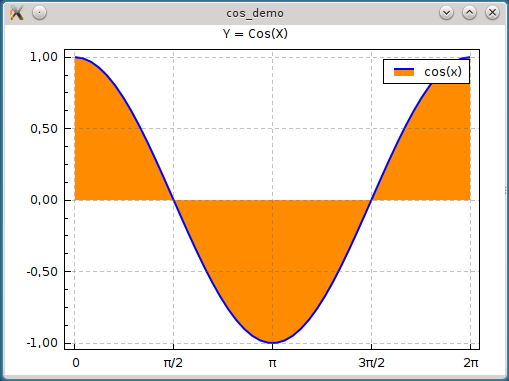
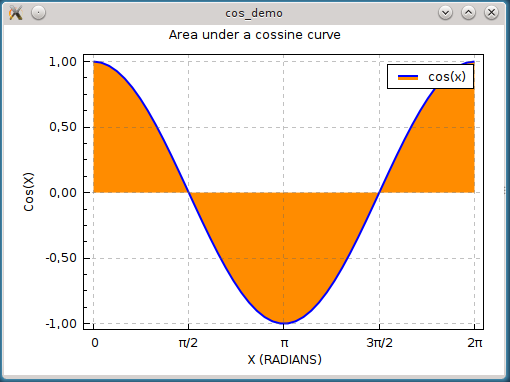
added axis labels

diff --git a/src/slope/axis.c b/src/slope/axis.c
@@ -22,7 +22,7 @@
 #include <stdlib.h>
 
 
-static const double dashes[2] = { 4.0, 3.0 };
+static const double dashes[2] = { 4.0, 4.0 };
 
 
 static void _slope_axis_get_data_rect (const slope_item_t *self, slope_rect_t *rect);
@@ -52,7 +52,7 @@ static slope_item_class_t* _slope_axis_get_class()
 }
 
 
-slope_item_t* slope_axis_new (slope_scale_t *linear_scale, slope_axis_position_t pos)
+slope_item_t* slope_axis_new (slope_scale_t *linear_scale, const char *name, slope_axis_position_t pos)
 {
     slope_axis_t *self = SLOPE_ALLOC(slope_axis_t);
     slope_axis_private_t *priv = SLOPE_ALLOC(slope_axis_private_t);
@@ -68,6 +68,7 @@ slope_item_t* slope_axis_new (slope_scale_t *linear_scale, slope_axis_position_t
     item_priv->scale = linear_scale;
     priv->elements = SLOPE_AXIS_ALL;
     priv->elements &= ~SLOPE_AXIS_GRID;
+    slope_item_set_name(SLOPE_ITEM(self), name);
 
     return SLOPE_ITEM(self);
 }
@@ -239,6 +240,13 @@ static void _slope_axis_draw_bottom (slope_item_t *self, cairo_t *cr)
             }
         }
     }
+    if (priv->elements & SLOPE_AXIS_TITLE) {
+        cairo_text_extents(cr, item_priv->name, &txt_ext);
+        x = fig_rect.x + (fig_rect.width - txt_ext.width)/2.0;
+        y += 4.0*txt_hei;
+        cairo_move_to(cr, x, y);
+        cairo_show_text(cr, item_priv->name);
+    }
 }
 
 
@@ -307,6 +315,13 @@ static void _slope_axis_draw_top (slope_item_t *self, cairo_t *cr)
             }
         }
     }
+    if (priv->elements & SLOPE_AXIS_TITLE) {
+        cairo_text_extents(cr, item_priv->name, &txt_ext);
+        x = fig_rect.x + (fig_rect.width - txt_ext.width)/2.0;
+        y -= 3.0*txt_hei;
+        cairo_move_to(cr, x, y);
+        cairo_show_text(cr, item_priv->name);
+    }
 }
 
 
@@ -320,10 +335,12 @@ static void _slope_axis_draw_left (slope_item_t *self, cairo_t *cr)
     slope_rect_t fig_rect;
     slope_rect_t dat_rect;
     double x, y, txt_hei;
+    double txt_max_width;
 
     /* work around crazy text heights when using unicode */
     cairo_text_extents(cr, "dummy", &txt_ext);
     txt_hei = txt_ext.height * 0.66;
+    txt_max_width = 0.0;
 
     slope_scale_get_figure_rect(item_priv->scale, &fig_rect);
     slope_scale_get_data_rect(item_priv->scale, &dat_rect);
@@ -374,6 +391,7 @@ static void _slope_axis_draw_left (slope_item_t *self, cairo_t *cr)
                 cairo_stroke(cr);
 
                 cairo_text_extents(cr, sample->label, &txt_ext);
+                if (txt_ext.width > txt_max_width) txt_max_width = txt_ext.width;
                 cairo_move_to(cr, x-txt_ext.width-txt_hei, y+txt_hei/2.0);
                 cairo_show_text(cr, sample->label);
             }
@@ -383,6 +401,16 @@ static void _slope_axis_draw_left (slope_item_t *self, cairo_t *cr)
                 cairo_stroke(cr);
             }
         }
+    }
+    if (priv->elements & SLOPE_AXIS_TITLE) {
+        cairo_save(cr);
+        cairo_rotate(cr, -1.5707963267948967);
+        cairo_text_extents(cr, item_priv->name, &txt_ext);
+        x = - fig_rect.y - (fig_rect.height + txt_ext.width)/2.0;
+        y = fig_rect.x - txt_max_width - 2.0*txt_hei - 4.0;
+        cairo_move_to(cr, x, y);
+        cairo_show_text(cr, item_priv->name);
+        cairo_restore(cr);
     }
 }
 
@@ -397,10 +425,12 @@ static void _slope_axis_draw_right (slope_item_t *self, cairo_t *cr)
     slope_rect_t fig_rect;
     slope_rect_t dat_rect;
     double x, y, txt_hei;
+    double txt_max_width;
 
     /* work around crazy text heights when using unicode */
     cairo_text_extents(cr, "dummy", &txt_ext);
     txt_hei = txt_ext.height * 0.66;
+    txt_max_width = 0.0;
 
     slope_scale_get_figure_rect(item_priv->scale, &fig_rect);
     slope_scale_get_data_rect(item_priv->scale, &dat_rect);
@@ -440,6 +470,7 @@ static void _slope_axis_draw_right (slope_item_t *self, cairo_t *cr)
                 cairo_stroke(cr);
 
                 cairo_text_extents(cr, sample->label, &txt_ext);
+                if (txt_ext.width > txt_max_width) txt_max_width = txt_ext.width;
                 cairo_move_to(cr, x+txt_hei, y+txt_hei/2.0);
                 cairo_show_text(cr, sample->label);
             }
@@ -449,6 +480,16 @@ static void _slope_axis_draw_right (slope_item_t *self, cairo_t *cr)
                 cairo_stroke(cr);
             }
         }
+    }
+    if (priv->elements & SLOPE_AXIS_TITLE) {
+        cairo_save(cr);
+        cairo_rotate(cr, -1.5707963267948967);
+        cairo_text_extents(cr, item_priv->name, &txt_ext);
+        x = - fig_rect.y - (fig_rect.height + txt_ext.width)/2.0;
+        y = fig_rect.x + fig_rect.width + txt_max_width + 3.0*txt_hei + 4.0;
+        cairo_move_to(cr, x, y);
+        cairo_show_text(cr, item_priv->name);
+        cairo_restore(cr);
     }
 }
 

diff --git a/src/slope/linear.c b/src/slope/linear.c
@@ -64,14 +64,14 @@ slope_scale_t* slope_linear_new (const char *name)
     SLOPE_SCALE_GET_CLASS(self)->init(SLOPE_SCALE(self));
 
     /* add axis */
-    axis = slope_axis_new(SLOPE_SCALE(self), SLOPE_AXIS_BOTTOM);
+    axis = slope_axis_new(SLOPE_SCALE(self), "X", SLOPE_AXIS_BOTTOM);
     slope_list_append(priv->axis_list, axis);
-    axis = slope_axis_new(SLOPE_SCALE(self), SLOPE_AXIS_TOP);
+    axis = slope_axis_new(SLOPE_SCALE(self), "X", SLOPE_AXIS_TOP);
     slope_axis_set_elements(axis, SLOPE_AXIS_LINE);
     slope_list_append(priv->axis_list, axis);
-    axis = slope_axis_new(SLOPE_SCALE(self), SLOPE_AXIS_LEFT);
+    axis = slope_axis_new(SLOPE_SCALE(self), "Y", SLOPE_AXIS_LEFT);
     slope_list_append(priv->axis_list, axis);
-    axis = slope_axis_new(SLOPE_SCALE(self), SLOPE_AXIS_RIGHT);
+    axis = slope_axis_new(SLOPE_SCALE(self), "Y", SLOPE_AXIS_RIGHT);
     slope_axis_set_elements(axis, SLOPE_AXIS_LINE);
     slope_list_append(priv->axis_list, axis);
 
@@ -87,8 +87,8 @@ void slope_linear_init (slope_scale_t *self)
     slope_scale_init(self);
 
     priv->axis_list = slope_list_new();
-    priv->x_low_bound = 60.0; priv->x_up_bound = 25.0;
-    priv->y_low_bound = 25.0; priv->y_up_bound = 25.0;
+    priv->x_low_bound = 80.0; priv->x_up_bound = 20.0;
+    priv->y_low_bound = 30.0; priv->y_up_bound = 45.0;
 }
 
 
@@ -326,6 +326,33 @@ void slope_linear_set_show_grid (slope_scale_t *self, slope_bool_t show)
     axis = slope_linear_get_axis (self, SLOPE_AXIS_RIGHT);
     elements = slope_axis_get_elements(axis) & ~SLOPE_AXIS_GRID;
     slope_axis_set_elements(axis, elements);
+}
+
+
+void slope_linear_set_x_boundaries(slope_scale_t *self, double low_bound, double up_bound)
+{
+    slope_linear_private_t *priv = SLOPE_LINEAR_GET_PRIVATE(self);
+    priv->x_low_bound = low_bound;
+    priv->x_up_bound = up_bound;
+}
+
+
+void slope_linear_set_y_boundaries(slope_scale_t *self, double low_bound, double up_bound)
+{
+    slope_linear_private_t *priv = SLOPE_LINEAR_GET_PRIVATE(self);
+    priv->y_low_bound = low_bound;
+    priv->y_up_bound = up_bound;
+}
+
+
+void slope_linear_set_axis_labels (slope_scale_t *self,
+                                   const char *bottom_label, const char *left_label,
+                                   const char *top_label, const char *right_label)
+{
+    slope_item_set_name (SLOPE_ITEM (slope_linear_get_axis (self, SLOPE_AXIS_BOTTOM)), bottom_label);
+    slope_item_set_name (SLOPE_ITEM (slope_linear_get_axis (self, SLOPE_AXIS_LEFT)),   left_label);
+    slope_item_set_name (SLOPE_ITEM (slope_linear_get_axis (self, SLOPE_AXIS_TOP)),    top_label);
+    slope_item_set_name (SLOPE_ITEM (slope_linear_get_axis (self, SLOPE_AXIS_RIGHT)),  right_label);
 }
 
 /* slope/linear.c */

diff --git a/demos/log.c b/demos/log.c
@@ -31,10 +31,14 @@ int main(int argc, char *argv[])
 
     /* create series (plot) representation and place it in a scale */
     log1_series = slope_series_new_for_data(x, y1, NPTS, "log(x)", SLOPE_BLACK, SLOPE_RED, SLOPE_SERIES_CIRCLES);
-    log2_series = slope_series_new_for_data(x, y2, NPTS, "log(2x)", SLOPE_BLACK, SLOPE_INDIGO, SLOPE_SERIES_CIRCLES);
+    log2_series = slope_series_new_for_data(x, y2, NPTS, "log(2x)", SLOPE_BLACK, SLOPE_YELLOW, SLOPE_SERIES_CIRCLES);
     log3_series = slope_series_new_for_data(x, y3, NPTS, "log(3x)", SLOPE_BLACK, SLOPE_BLUE, SLOPE_SERIES_CIRCLES);
 
+    /* create a linear (cartesian) scale and set it's axis labels */
     scale = slope_linear_new("linear scale");
+    slope_linear_set_axis_labels(scale, "X", "Log(NX)", "","");
+    
+    /* add the plots to the scale */
     slope_scale_add_item(scale, log1_series);
     slope_scale_add_item(scale, log2_series);
     slope_scale_add_item(scale, log3_series);
@@ -45,7 +49,7 @@ int main(int argc, char *argv[])
     slope = slope_widget_new();
     figure = slope_widget_get_figure(slope);
     /* get figure from widget and set it's scale and title */
-    slope_figure_set_name(figure, "Y = Log(NX)");
+    slope_figure_set_name(figure, "Some logarithm functions");
     slope_figure_add_scale(figure, scale);
     /* put legend bellow the curves */
     legend = slope_figure_get_legend(figure);

diff --git a/src/slope/axis.h b/src/slope/axis.h
@@ -45,26 +45,26 @@ struct _slope_axis {
 
 typedef enum _slope_axis_position
 {
-    SLOPE_AXIS_BOTTOM = 0x000001,
-    SLOPE_AXIS_TOP    = 0x000002,
-    SLOPE_AXIS_LEFT   = 0x000004,
-    SLOPE_AXIS_RIGHT  = 0x000008
+    SLOPE_AXIS_BOTTOM = 0x00000001,
+    SLOPE_AXIS_TOP    = 0x00000002,
+    SLOPE_AXIS_LEFT   = 0x00000004,
+    SLOPE_AXIS_RIGHT  = 0x00000008
 }
 slope_axis_position_t;
 
 
 typedef enum _slope_axis_element
 {
-    SLOPE_AXIS_LINE   = 0x000001,
-    SLOPE_AXIS_TICKS  = 0x000002,
-    SLOPE_AXIS_GRID   = 0x000004,
-    SLOPE_AXIS_TITLE  = 0x000008,
-    SLOPE_AXIS_ALL    = 0xFFFFFF
+    SLOPE_AXIS_LINE   = 0x00000001,
+    SLOPE_AXIS_TICKS  = 0x00000002,
+    SLOPE_AXIS_GRID   = 0x00000004,
+    SLOPE_AXIS_TITLE  = 0x00000008,
+    SLOPE_AXIS_ALL    = 0xFFFFFFFF
 }
 slope_axis_element_t;
 
 
-slope_item_t* slope_axis_new (slope_scale_t *linear_scale, slope_axis_position_t pos);
+slope_item_t* slope_axis_new (slope_scale_t *linear_scale, const char *name, slope_axis_position_t pos);
 
 void slope_axis_init (slope_item_t *self);
 void slope_axis_finalize (slope_item_t *self);

diff --git a/demos/cos.c b/demos/cos.c
@@ -37,7 +37,10 @@ int main(int argc, char *argv[])
 
     /* create series (plot) representation and place it in a scale */
     cos_series = slope_series_new_for_data(x, y, NPTS, "cos(x)", SLOPE_BLUE, SLOPE_ORANGE, SLOPE_SERIES_AREAUNDER);
+    
+    /* create a linear (cartesian) scale and set it's axis labels */
     scale = slope_linear_new("linear scale");
+    slope_linear_set_axis_labels(scale, "X (RADIANS)", "Cos(X)", "","");
     slope_linear_set_show_grid(scale, SLOPE_TRUE);
     slope_scale_add_item(scale, cos_series);
 
@@ -51,7 +54,7 @@ int main(int argc, char *argv[])
     window = gtk_window_new(GTK_WINDOW_TOPLEVEL);
     slope = slope_widget_new();
     figure = slope_widget_get_figure(slope);
-    slope_figure_set_name(figure, "Y = Cos(X)");
+    slope_figure_set_name(figure, "Area under a cossine curve");
     slope_figure_add_scale(figure, scale);
 
     gtk_container_add(GTK_CONTAINER(window), slope);

diff --git a/src/slope/linear.h b/src/slope/linear.h
@@ -50,6 +50,10 @@ void slope_linear_finalize (slope_scale_t *self);
 
 slope_item_t* slope_linear_get_axis (slope_scale_t *self, slope_axis_position_t pos);
 void slope_linear_set_show_grid (slope_scale_t *self, slope_bool_t show);
+void slope_linear_set_x_boundaries (slope_scale_t *self, double low_bound, double up_bound);
+void slope_linear_set_y_boundaries (slope_scale_t *self, double low_bound, double up_bound);
+void slope_linear_set_axis_labels (slope_scale_t *self, const char *bottom_label, const char *left_label,
+                                   const char *top_label, const char *right_label);
 
 SLOPE_END_DECLS
 

diff --git a/src/slope/figure.c b/src/slope/figure.c
@@ -158,7 +158,7 @@ static void _slope_figure_draw (slope_figure_t *self, const slope_rect_t *rect, 
     /* draw figure title */
     if (priv->show_title) {
         cairo_text_extents(cr, priv->name, &txt_ext);
-        cairo_move_to(cr, rect->x + (rect->width-txt_ext.width)/2.0, txt_ext.height+2.0);
+        cairo_move_to(cr, rect->x + (rect->width-txt_ext.width)/2.0, txt_ext.height+4.0);
         slope_cairo_set_color(cr, priv->name_color);
         cairo_show_text(cr, priv->name);
     }

diff --git a/src/slope/sampler.c b/src/slope/sampler.c
@@ -111,9 +111,9 @@ void slope_sampler_auto_sample_decimal (slope_sampler_t *self, double min, doubl
     pow_diff = round(log10(v_diff));
     samp_spac = pow(10.0, pow_diff-1.0);
    
-    while ((v_diff/samp_spac) > (hint+3.0))
+    if ((v_diff/samp_spac) > (hint+5.0))
        samp_spac *= 5.0;
-    while ((v_diff/samp_spac) < (hint-3.0))
+    if ((v_diff/samp_spac) < (hint-5.0))
        samp_spac /= 5.0;
    
     if (min < 0.0) {
